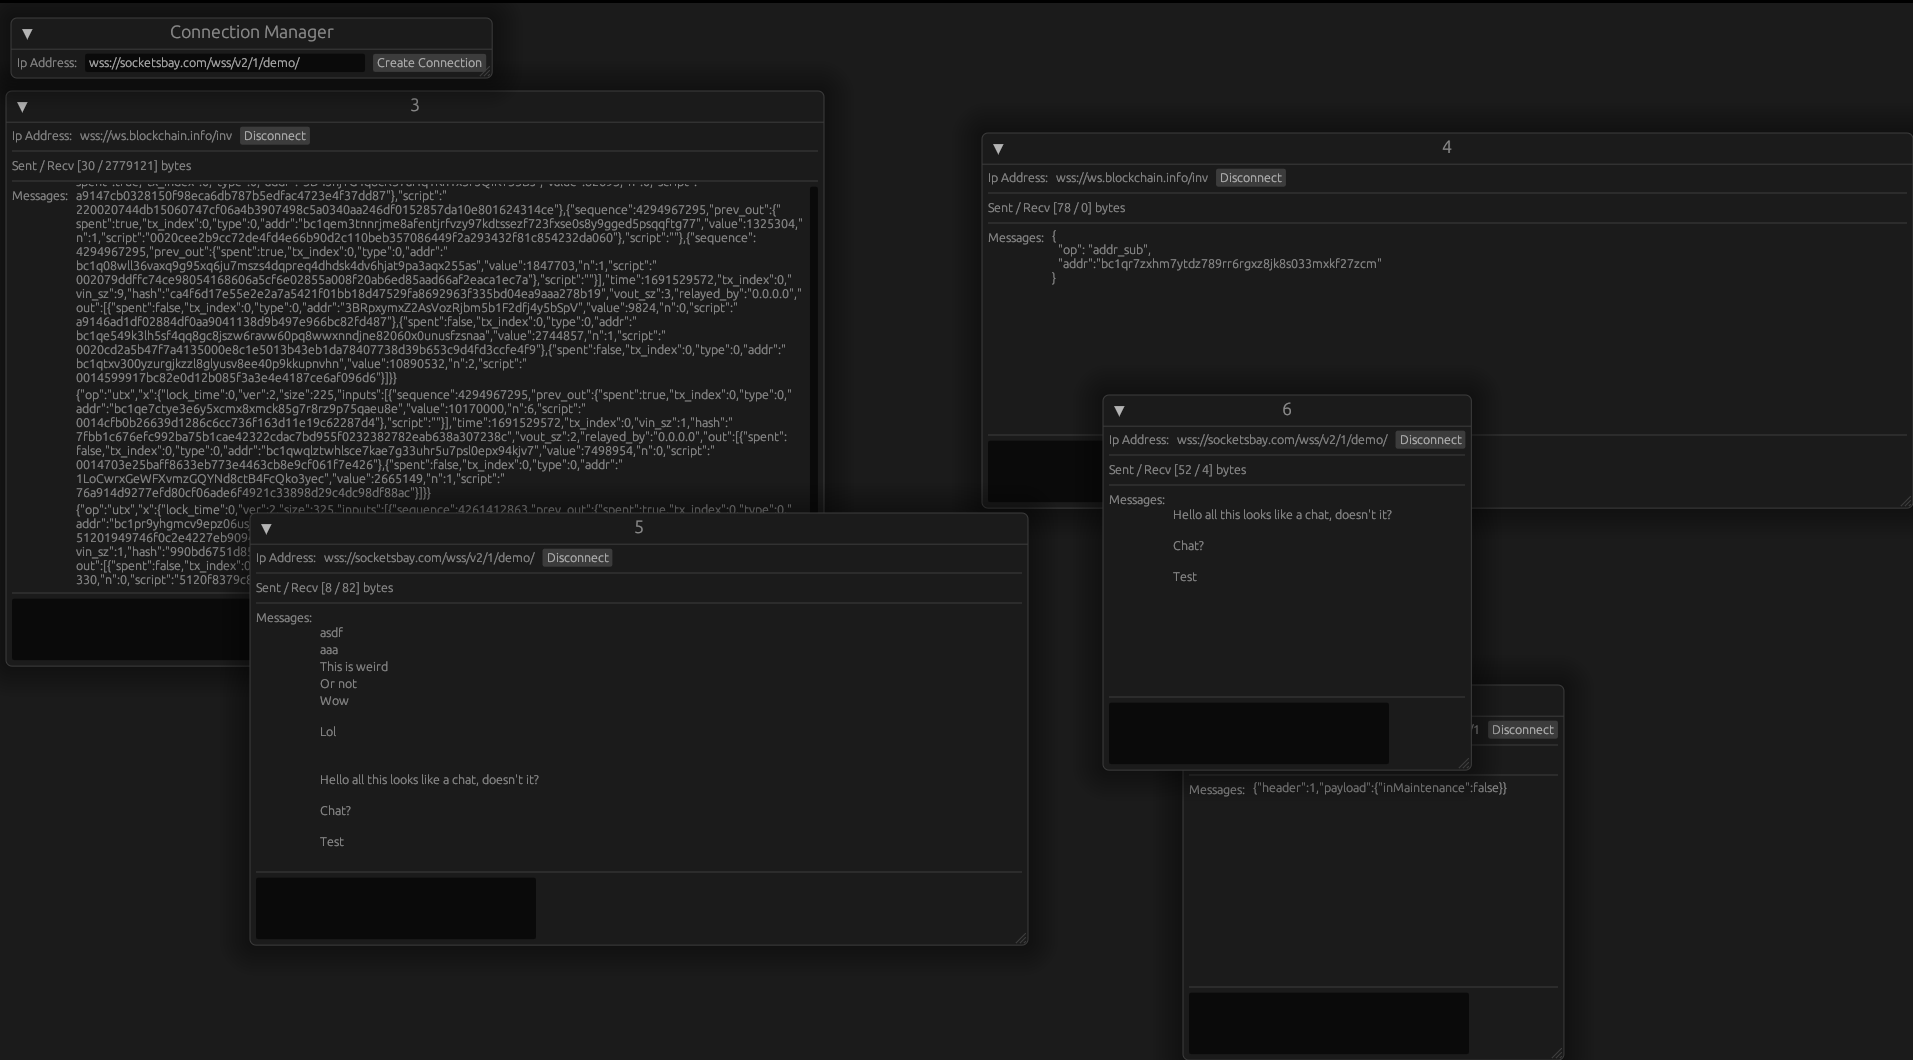
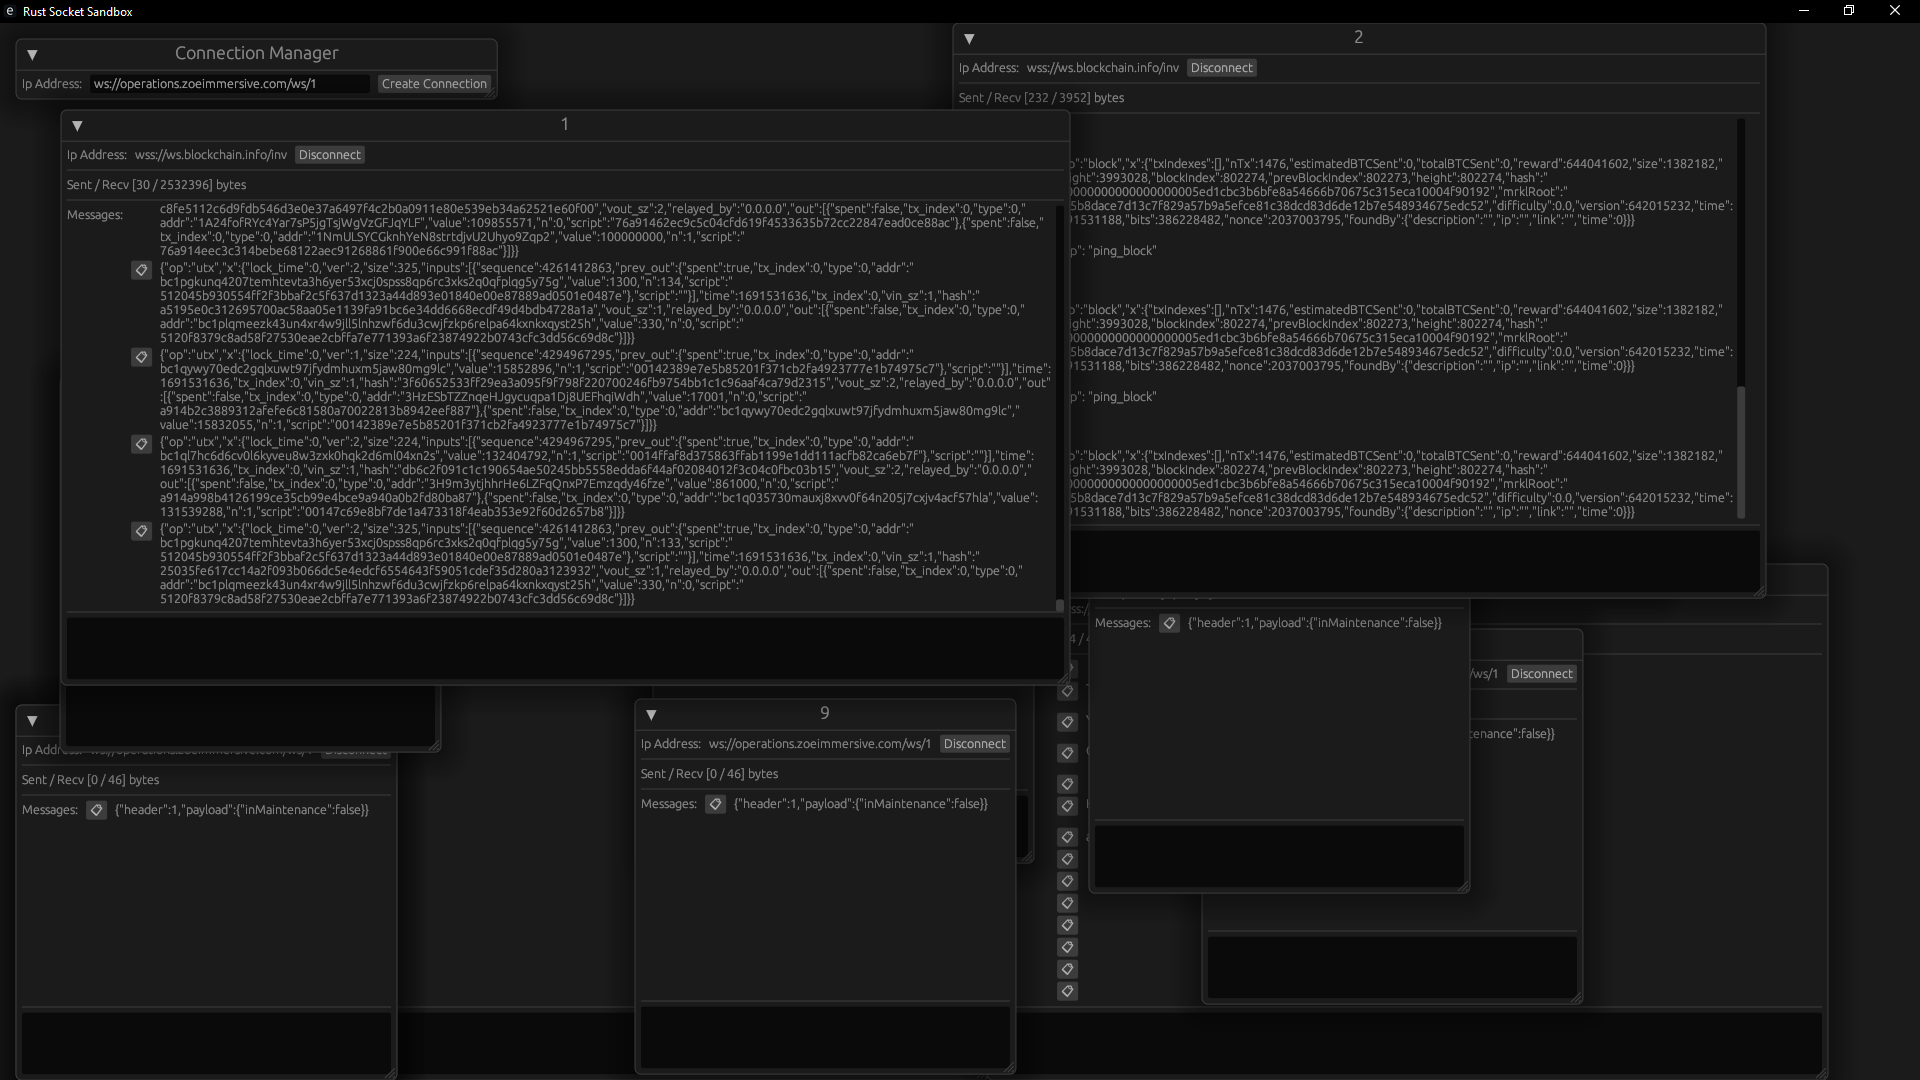
Copy feature + new screen capture

diff --git a/src/ui.rs b/src/ui.rs
@@ -94,14 +94,14 @@ impl UI {
     ) {
         let ui_to_network_clone = ui_to_network.clone();
         let mut actions = Vec::new();
-    
+
         {
             let mut state = app_state.lock().unwrap();
             for window_index in 0..state.connection_window.len() {
                 let window_id = state.connection_window[window_index].id.clone();
                 let utn_for_send = ui_to_network_clone.clone();
                 let utn_for_disconnect = ui_to_network_clone.clone();
-    
+
                 egui::Window::new(&window_id.to_string())
                     .resizable(true)
                     .show(ctx, |ui| {
@@ -118,19 +118,21 @@ impl UI {
                                 ));
                             }
                         });
-    
+
                         ui.separator();
-    
+
                         ui.horizontal(|ui| {
                             ui.label(format!(
                                 "Sent / Recv [{} / {}] bytes",
                                 state.connection_window[window_index].connection.send_bytes,
-                                state.connection_window[window_index].connection.received_bytes
+                                state.connection_window[window_index]
+                                    .connection
+                                    .received_bytes
                             ));
                         });
-    
+
                         ui.separator();
-    
+
                         ui.horizontal(|ui| {
                             ui.label("Messages:");
                             egui::ScrollArea::vertical()
@@ -138,20 +140,48 @@ impl UI {
                                 .stick_to_bottom(true)
                                 .show(ui, |ui| {
                                     ui.vertical(|ui| {
-                                        for message in &state.connection_window[window_index].connection.messages {
-                                            ui.label(message);
+                                        for message in &state.connection_window[window_index]
+                                            .connection
+                                            .messages
+                                        {
+                                            ui.horizontal(|ui| {
+                                                if ui
+                                                    .button("📋")
+                                                    .on_hover_text("Click to copy")
+                                                    .clicked()
+                                                {
+                                                    ui.output_mut(|o| {
+                                                        o.copied_text = message.to_string()
+                                                    });
+                                                }
+                                                ui.add(egui::Label::new(message).wrap(true));
+                                            });
                                         }
                                     });
                                 });
                         });
-    
+
                         ui.separator();
-    
+
                         ui.horizontal(|ui| {
-                            if ui.text_edit_multiline(&mut state.connection_window[window_index].connection.editing_message).changed() {
+                            if ui
+                                .add_sized(
+                                    ui.available_size(),
+                                    egui::TextEdit::multiline(
+                                        &mut state.connection_window[window_index]
+                                            .connection
+                                            .editing_message,
+                                    ),
+                                )
+                                .changed()
+                            {
                                 if ui.input(|ev| ev.key_pressed(egui::Key::Enter)) {
-                                    let msg = state.connection_window[window_index].connection.editing_message.clone();
-                                    actions.push(WindowAction::UpdateMessage(window_id, msg.clone()));
+                                    let msg = state.connection_window[window_index]
+                                        .connection
+                                        .editing_message
+                                        .clone();
+                                    actions
+                                        .push(WindowAction::UpdateMessage(window_id, msg.clone()));
                                     actions.push(WindowAction::Send(
                                         utn_for_send,
                                         Message::Message {
@@ -166,7 +196,7 @@ impl UI {
                     });
             }
         }
-    
+
         // Process actions
         let mut state = app_state.lock().unwrap();
         for action in actions {
@@ -188,12 +218,13 @@ impl UI {
                 }
             }
         }
-    
+
         let windows_to_remove = state.windows_to_remove.clone();
-        state.connection_window.retain(|window| !windows_to_remove.contains(&window.id));
+        state
+            .connection_window
+            .retain(|window| !windows_to_remove.contains(&window.id));
         state.windows_to_remove.clear();
     }
-    
 }
 enum WindowAction {
     Disconnect(u8),
